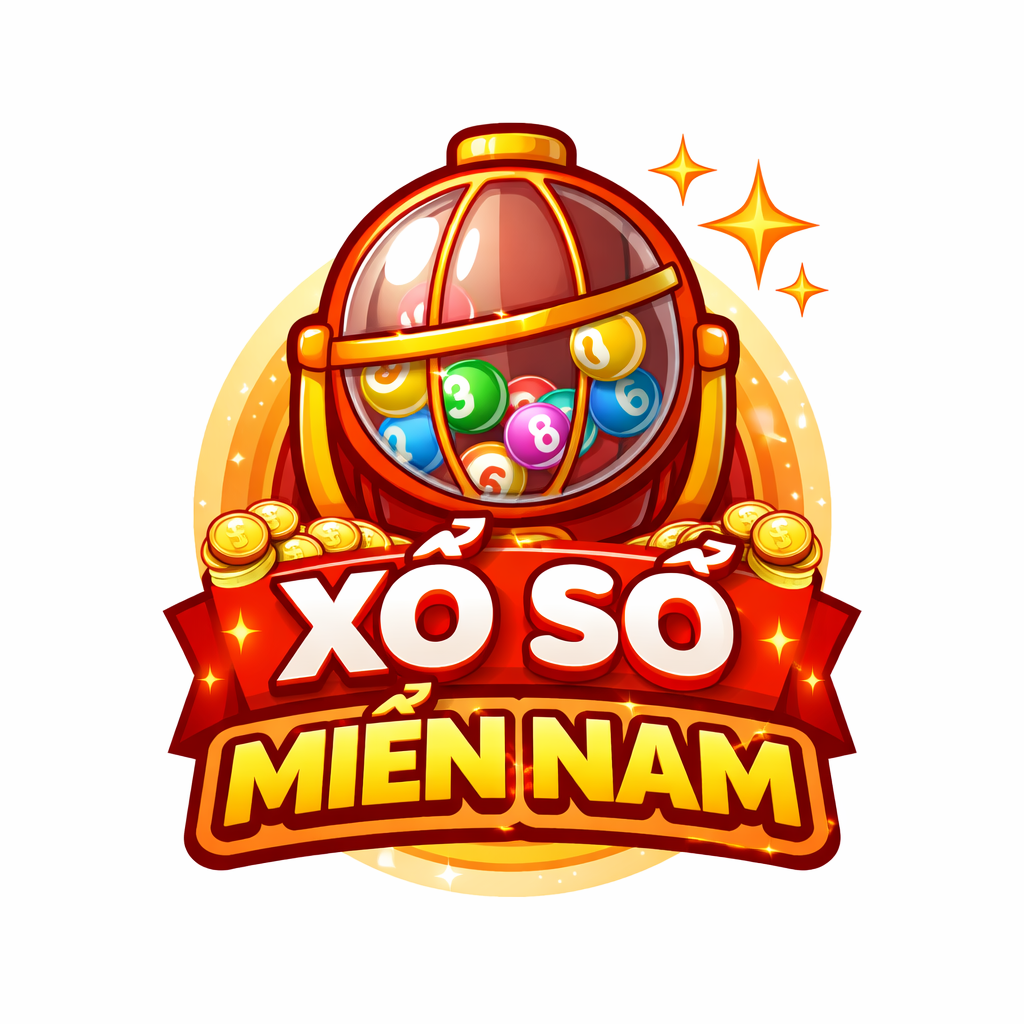
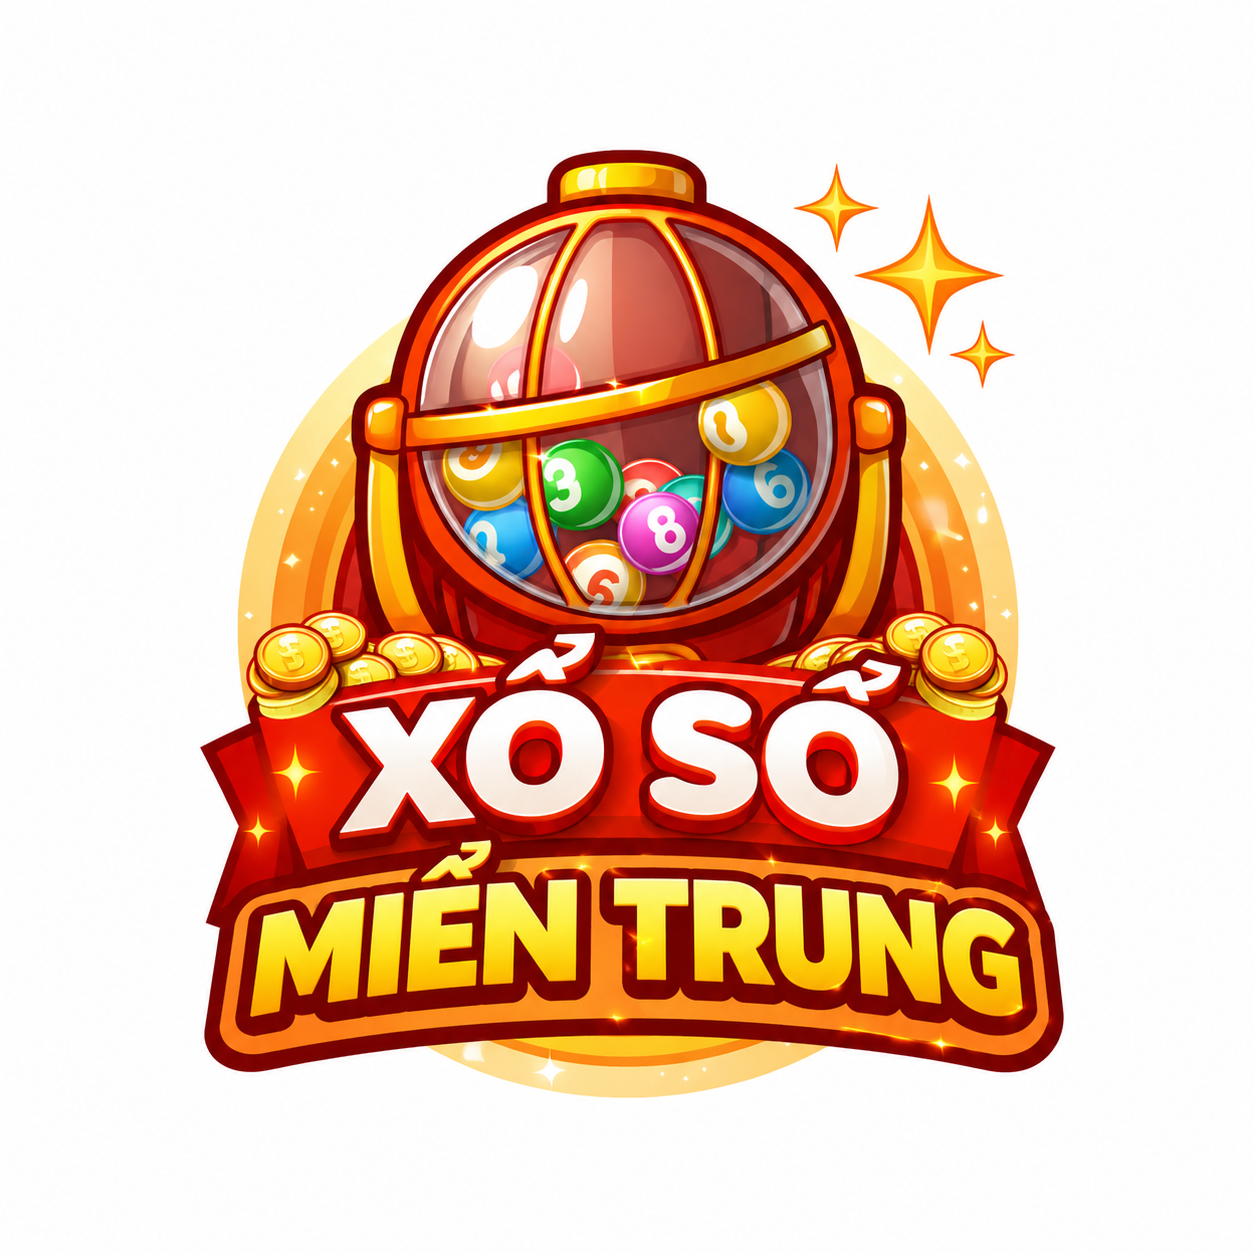
update

diff --git a/frontend/lib/core/constants/api.dart b/frontend/lib/core/constants/api.dart
@@ -2,8 +2,8 @@ import 'dart:math';
 import 'package:http/http.dart' as http;
 
 class Api {
-  static const baseUrl1 = 'https://xsmn.onrender.com/api/';
-  static const baseUrl2 = 'https://xsmn-5jbi.onrender.com/api/';
+  static const baseUrl1 = 'https://xsmt.onrender.com/api/';
+  static const baseUrl2 = 'https://xsmt.onrender.com/api/';
   static final List<String> _bases = [baseUrl1, baseUrl2];
   static final Random _random = Random();
 

diff --git a/crawl/crawlXSMN_POST.js b/crawl/crawlXSMN_POST.js
@@ -134,7 +134,7 @@ const run = async () => {
     // 👉 lấy ngày hôm nay
     const date = new Date().toLocaleDateString("sv-SE");
 
-    const data = await crawlXSMN(date);
+    const data = await crawlXSMT(date);
 
     console.log("📊 Data:", JSON.stringify(data, null, 2));
 

diff --git a/crawl/crawlXSMN_PUT.js b/crawl/crawlXSMN_PUT.js
@@ -134,7 +134,7 @@ const run = async () => {
     // 👉 lấy ngày hôm nay
     const date = new Date().toLocaleDateString("sv-SE");
 
-    const data = await crawlXSMN(date);
+    const data = await crawlXSMT(date);
 
     console.log("📊 Data:", JSON.stringify(data, null, 2));
 

diff --git a/frontend/lib/widgets/my_drawer.dart b/frontend/lib/widgets/my_drawer.dart
@@ -13,7 +13,7 @@ class MyDrawer extends StatelessWidget {
               padding: const EdgeInsets.all(4),
               child: Image.asset('assets/images/XSMN_image.png'),
             ),
-            title: const Text('Xổ Số Miền Nam'),
+            title: const Text('Xổ Số Miền Trung'),
             backgroundColor: Colors.white,
           ),
           const Center(child: Text('version 1.0.0')),

diff --git a/frontend/lib/widgets/wait_page.dart b/frontend/lib/widgets/wait_page.dart
@@ -13,7 +13,7 @@ class WaitPage extends StatelessWidget {
           children: [
             Image.asset('assets/images/XSMN_image.png'),
             Text(
-              'Xổ Số Miền Nam',
+              'Xổ Số Miền Trung',
               style: TextStyle(fontSize: 30, fontWeight: FontWeight.bold),
             ),
             SizedBox(height: 15),

diff --git a/README.md b/README.md
@@ -1,6 +1,6 @@
-# 🎰 Lottery App - Xổ Số Miền Nam
+# 🎰 Lottery App - Xổ Số Miền Trung
 
-Ứng dụng tra cứu kết quả xổ số miền Nam theo thời gian thực, gồm 3 thành phần: **Backend API**, **Crawl Service** và **Frontend Flutter**.
+Ứng dụng tra cứu kết quả xổ số miền Trung theo thời gian thực, gồm 3 thành phần: **Backend API**, **Crawl Service** và **Frontend Flutter**.
 
 ---
 
@@ -54,8 +54,8 @@ REDIS_URL=rediss://...
 
 **Query params ví dụ:**
 ```
-GET /api/results/filter?region=mien-nam&date=2026-04-22
-GET /api/results/filter-province?province=TP.HCM&date=2026-04-22
+GET /api/results/filter?region=mien-trung&date=2026-04-22
+GET /api/results/filter-province?province=Da%20Nang&date=2026-04-22
 ```
 
 ### Cấu trúc dữ liệu
@@ -63,10 +63,10 @@ GET /api/results/filter-province?province=TP.HCM&date=2026-04-22
 ```json
 {
   "date": "2026-04-22T00:00:00.000Z",
-  "region": "mien-nam",
+  "region": "mien-trung",
   "provinces": [
     {
-      "province": "TP.HCM",
+      "province": "Đà Nẵng",
       "full": {
         "DB": ["123456"],
         "G1": ["12345"],
@@ -94,10 +94,10 @@ cd crawl
 npm install
 
 # Tạo mới kết quả ngày hôm nay (POST)
-node crawlXSMN_POST.js
+node crawlXSMT_POST.js
 
 # Cập nhật kết quả ngày hôm nay (PUT/upsert)
-node crawlXSMN_PUT.js
+node crawlXSMT_PUT.js
 ```
 
 > Thường được chạy tự động qua **GitHub Actions** theo lịch hàng ngày.
@@ -109,7 +109,7 @@ node crawlXSMN_PUT.js
 Ứng dụng Flutter hiển thị kết quả xổ số và tính năng **dò vé số tự động**.
 
 ### Tính năng
-- Xem kết quả xổ số miền Nam theo ngày
+- Xem kết quả xổ số miền Trung theo ngày
 - Lọc theo tỉnh thành
 - Dò vé số 6 chữ số — tự động kiểm tra tất cả các giải (G8 → ĐB, giải phụ, giải khuyến khích)
 
@@ -125,7 +125,7 @@ flutter run
 
 ## Triển khai
 
-- **Backend** deploy trên [Render](https://render.com) tại `https://xsmn.onrender.com`
+- **Backend** deploy trên [Render](https://render.com) tại `https://xsmt.onrender.com`
 - **Crawl** chạy qua GitHub Actions (`.github/workflows/`)
 - **Frontend** build Flutter web hoặc Android/iOS
 
@@ -136,4 +136,3 @@ flutter run
 - Cache Redis TTL: 2 phút cho endpoint `GET /api/results`
 - Khi PUT thành công, cache `results:all` bị xóa để đảm bảo dữ liệu mới nhất
 - Index MongoDB: `{ date, region }` unique
-# XSMT